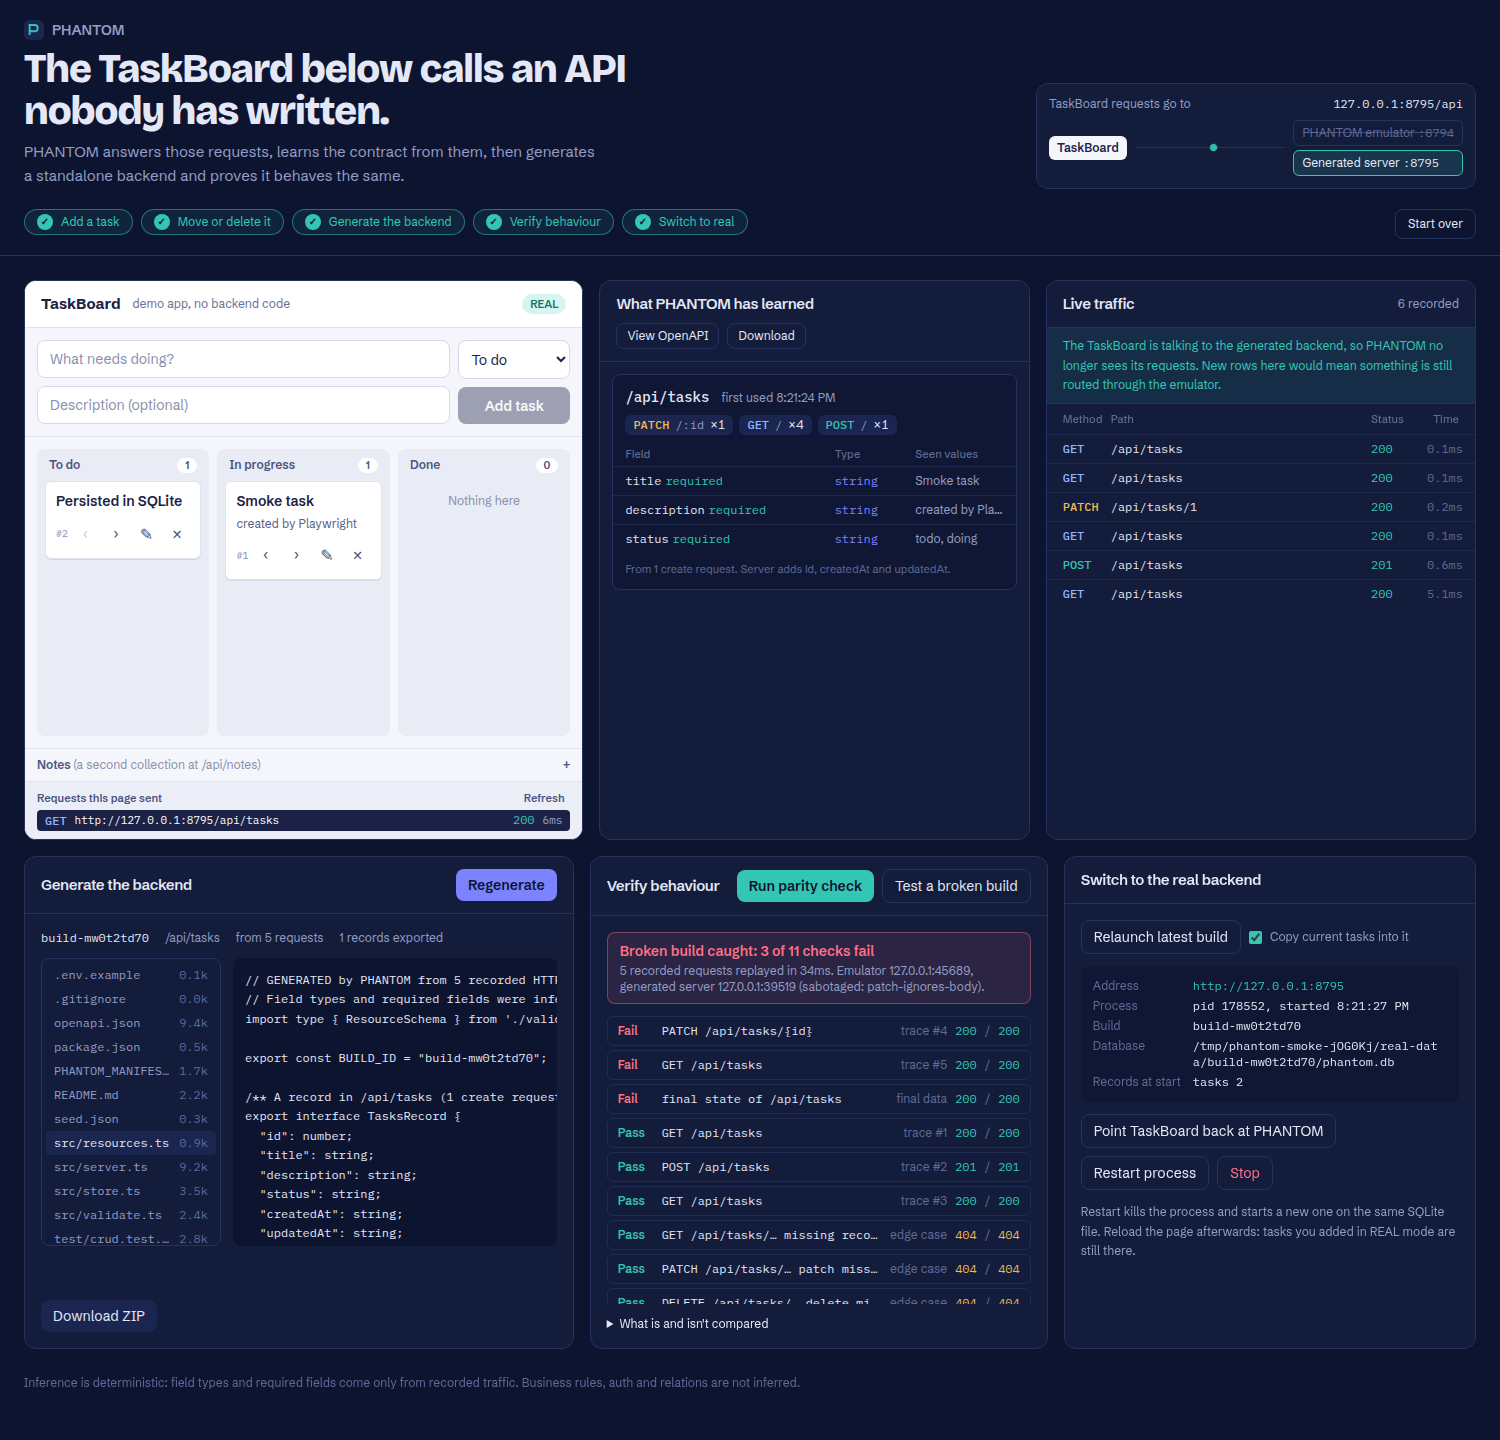
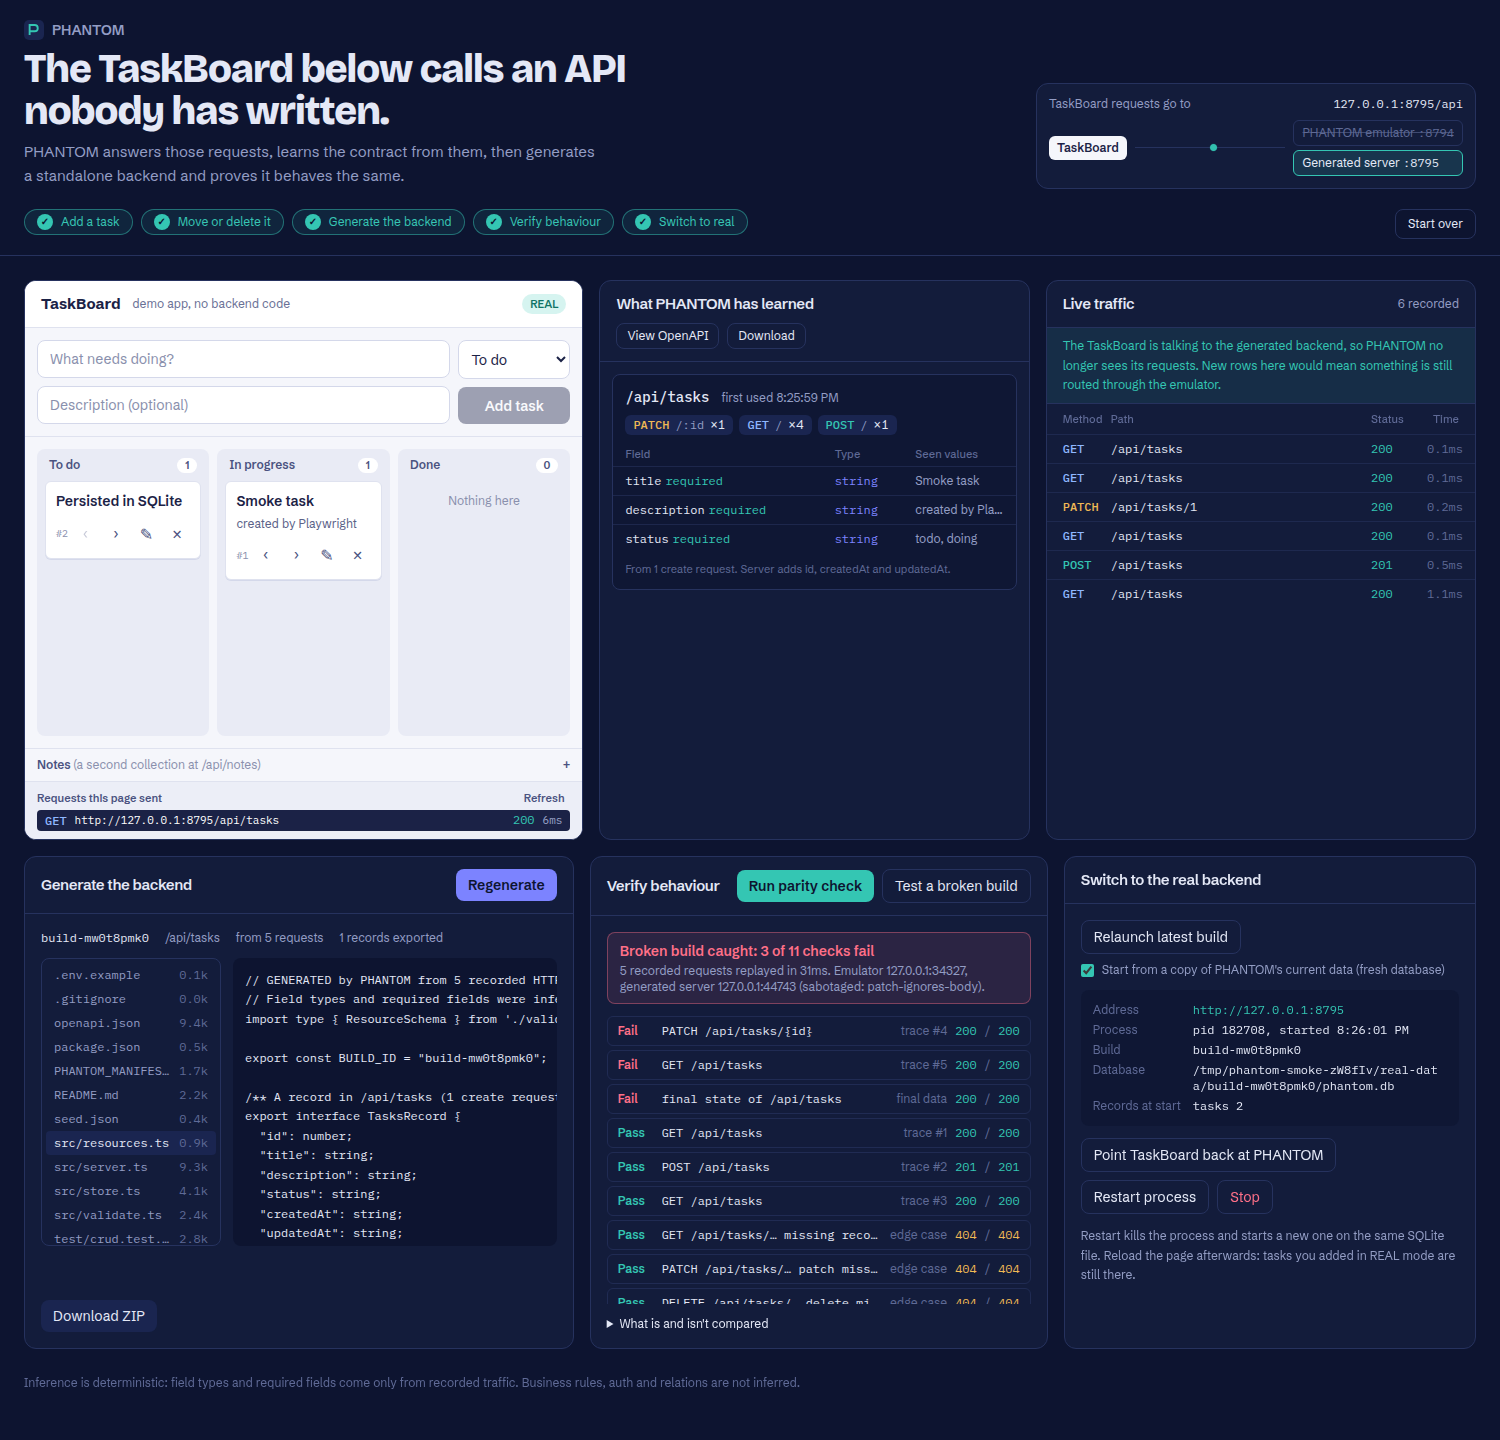
Migrate emulator data at launch time (not generate time), preserve id sequence; typecheck covers template

Changed region(s): [[0.7053, 0.625, 0.9813, 0.875], [0.5213, 0.6562, 0.644, 0.6875], [0.5213, 0.25, 0.552, 0.2812]]

diff --git a/server/backendGenerator.ts b/server/backendGenerator.ts
@@ -198,16 +198,25 @@ by an engineer.
 `;
 }
 
+/** Dataset export understood by the generated server's SEED_FILE import (records keep their ids; nextIds prevent id reuse). */
+export function renderSeed(snapshot: EngineSnapshot | undefined, resources: string[], exportedAt: string): { content: string; records: number } {
+  const collections: Record<string, unknown[]> = {};
+  const nextIds: Record<string, number> = {};
+  let records = 0;
+  for (const name of resources) {
+    const c = snapshot?.collections[name];
+    collections[name] = c?.records ?? [];
+    nextIds[name] = c?.nextId ?? 1;
+    records += collections[name].length;
+  }
+  return { content: JSON.stringify({ exportedAt, collections, nextIds }, null, 2) + '\n', records };
+}
+
 export function generateProject(contract: InferredContract, options: GenerateOptions): GeneratedFile[] {
   if (!/^[a-z0-9-]{1,64}$/.test(options.buildId)) throw new Error('invalid build id');
   const resources = contract.resources.filter((r) => RESOURCE_NAME.test(r.name)).map((r) => r.name);
-  const seedCollections: Record<string, unknown[]> = {};
-  let seedRecords = 0;
-  for (const name of resources) {
-    const records = options.seed?.collections[name]?.records ?? [];
-    seedCollections[name] = records;
-    seedRecords += records.length;
-  }
+  const seed = renderSeed(options.seed, resources, options.createdAt ?? new Date().toISOString());
+  const seedRecords = seed.records;
   const files: GeneratedFile[] = [];
   for (const rel of TEMPLATE_FILES) {
     let content = readFileSync(join(TEMPLATE_DIR, rel), 'utf8');
@@ -241,7 +250,7 @@ export function generateProject(contract: InferredContract, options: GenerateOpt
       ) + '\n',
   });
   files.push({ path: 'openapi.json', content: JSON.stringify(buildOpenApi(contract, { title: 'Generated backend' }), null, 2) + '\n' });
-  files.push({ path: 'seed.json', content: JSON.stringify({ exportedAt: options.createdAt ?? new Date().toISOString(), collections: seedCollections }, null, 2) + '\n' });
+  files.push({ path: 'seed.json', content: seed.content });
   files.push({ path: 'README.md', content: renderReadme(contract, options.buildId, seedRecords) });
   files.push({ path: '.gitignore', content: 'node_modules/\ndata/\n' });
   files.push({ path: '.env.example', content: 'PORT=8788\nHOST=127.0.0.1\nDATA_DIR=./data\n# SEED_FILE=seed.json\nCORS_ORIGINS=http://127.0.0.1:8787,http://localhost:8787\n' });

diff --git a/tests/e2e.test.ts b/tests/e2e.test.ts
@@ -85,14 +85,17 @@ describe('PHANTOM end to end', () => {
   });
 
   it('launches the REAL backend with migrated data that survives a restart', async () => {
+    // Created AFTER the build was generated: migration must copy the emulator's data at launch time.
+    expect((await api('POST', '/api/tasks', { title: 'Added after generate', description: '', status: 'todo' })).body.id).toBe(3);
     const launched = (await api('POST', '/__phantom/real/launch', { buildId: build.id, migrate: true })).body;
     expect(launched.running).toBe(true);
     const realBase = launched.url as string;
     expect(realBase).not.toBe(base);
     const migrated = (await api('GET', '/api/tasks', undefined, realBase)).body as { title: string }[];
-    expect(migrated.map((t) => t.title)).toEqual(['Write pitch']);
+    expect(migrated.map((t) => t.title)).toEqual(['Write pitch', 'Added after generate']);
     const created = await api('POST', '/api/tasks', { title: 'Only in REAL', description: 'sqlite', status: 'todo' }, realBase);
     expect(created.status).toBe(201);
+    expect(created.body.id).toBe(4); // continues the emulator's id sequence; deleted id 2 is never reused
     expect(created.headers.get('x-phantom-generated-build')).toBe(build.id);
     // The emulator never saw it: the REAL backend is a separate implementation with its own storage.
     expect(((await api('GET', '/api/tasks')).body as { title: string }[]).some((t) => t.title === 'Only in REAL')).toBe(false);
@@ -100,7 +103,7 @@ describe('PHANTOM end to end', () => {
     const restarted = (await api('POST', '/__phantom/real/restart')).body;
     expect(restarted.pid).not.toBe(launched.pid);
     const after = (await api('GET', '/api/tasks', undefined, restarted.url)).body as { title: string }[];
-    expect(after.map((t) => t.title)).toEqual(['Write pitch', 'Only in REAL']);
+    expect(after.map((t) => t.title)).toEqual(['Write pitch', 'Added after generate', 'Only in REAL']);
     const bad = await api('POST', '/api/tasks', { title: 42 }, restarted.url);
     expect(bad.status).toBe(400);
     expect(bad.body.error).toBe('validation_failed');

diff --git a/server/app.ts b/server/app.ts
@@ -11,7 +11,7 @@ import type { TraceEvent } from './traceRecorder.ts';
 import { TraceRecorder } from './traceRecorder.ts';
 import { buildOpenApi, inferContract } from './contractInference.ts';
 import type { BuildInfo, GeneratedFile, Mutation } from './backendGenerator.ts';
-import { describeBuild, generateProject, writeProject, zipProject } from './backendGenerator.ts';
+import { describeBuild, generateProject, renderSeed, writeProject, zipProject } from './backendGenerator.ts';
 import type { RunningBackend } from './processManager.ts';
 import { startGeneratedBackend } from './processManager.ts';
 import type { ParityReport } from './parityVerifier.ts';
@@ -121,12 +121,20 @@ export async function createPhantom(options: PhantomOptions = {}): Promise<Phant
     if (real) await real.stop();
     real = undefined;
     const realData = join(dataDir, 'real-data', buildId);
+    let seedFile: string | undefined;
+    if (migrate) {
+      // Copy the emulator's data as it is right now into a fresh database (not the snapshot taken at generate time).
+      rmSync(realData, { recursive: true, force: true });
+      mkdirSync(realData, { recursive: true });
+      seedFile = join(dataDir, 'real-data', `${buildId}.seed.json`);
+      writeFileSync(seedFile, renderSeed(engine.snapshot(), build.info.resources, new Date().toISOString()).content);
+    }
     try {
       const started = await startGeneratedBackend({
         dir: build.info.dir,
         dataDir: realData,
         port: realPort,
-        seedFile: migrate ? join(build.info.dir, 'seed.json') : undefined,
+        seedFile,
         corsOrigins: [...origins].join(','),
       });
       real = { ...started, buildId, startedAt: new Date().toISOString(), dataDir: realData, migrated: migrate };

diff --git a/templates/backend/src/store.ts b/templates/backend/src/store.ts
@@ -73,6 +73,16 @@ export class Store {
       .run(id, JSON.stringify(data), String(createdAt), String(updatedAt));
   }
 
+  /** Ensure the next generated id is at least `nextId` (keeps ids from an imported dataset unique forever). */
+  reserveIds(resource: string, nextId: number): void {
+    if (!Number.isInteger(nextId) || nextId < 2) return;
+    const name = `res_${resource}`;
+    table(resource);
+    const row = this.db.prepare('SELECT seq FROM sqlite_sequence WHERE name = ?').get(name) as { seq: number } | undefined;
+    if (!row) this.db.prepare('INSERT INTO sqlite_sequence (name, seq) VALUES (?, ?)').run(name, nextId - 1);
+    else if (Number(row.seq) < nextId - 1) this.db.prepare('UPDATE sqlite_sequence SET seq = ? WHERE name = ?').run(nextId - 1, name);
+  }
+
   update(resource: string, id: number, data: JsonObject, now: string): StoredRecord | undefined {
     const result = this.db.prepare(`UPDATE ${table(resource)} SET data = ?, updated_at = ? WHERE id = ?`).run(JSON.stringify(data), now, id);
     return Number(result.changes) > 0 ? this.get(resource, id) : undefined;

diff --git a/templates/backend/src/server.ts b/templates/backend/src/server.ts
@@ -40,7 +40,7 @@ interface Reply {
 const err = (status: number, error: string, message: string, extra: JsonObject = {}): Reply => ({ status, body: { error, message, ...extra } });
 
 function importSeed(file: string): number {
-  const seed = JSON.parse(readFileSync(file, 'utf8')) as { collections?: Record<string, StoredRecord[]> };
+  const seed = JSON.parse(readFileSync(file, 'utf8')) as { collections?: Record<string, StoredRecord[]>; nextIds?: Record<string, number> };
   let imported = 0;
   store.transaction(() => {
     for (const resource of RESOURCE_NAMES) {
@@ -51,6 +51,8 @@ function importSeed(file: string): number {
         store.importRecord(resource, r);
         imported++;
       }
+      const nextId = seed.nextIds?.[resource];
+      if (typeof nextId === 'number') store.reserveIds(resource, nextId);
     }
   });
   return imported;

diff --git a/web/src/components/Ship.tsx b/web/src/components/Ship.tsx
@@ -220,7 +220,7 @@ export function RealPanel({ build, real, mode, setMode, onReal }: { build?: Buil
               </Button>
               <label className="flex items-center gap-2 text-xs text-muted">
                 <input type="checkbox" checked={migrate} onChange={(e) => setMigrate(e.target.checked)} className="accent-teal" />
-                Copy current tasks into it
+                Start from a copy of PHANTOM's current data (fresh database)
               </label>
             </div>
             {running && real && (

diff --git a/README.md b/README.md
@@ -187,7 +187,9 @@ Screenshots captured by the smoke test (real runs, not mockups): `artifacts/scre
 - Inference only reflects recorded traffic. A field never sent is unknown, and extra fields are accepted.
 - Query filters are exact string matches on top-level scalar fields.
 - Traces are capped at 5,000 events, and parity replays up to 1,000 of them.
-- REAL-mode data and PHANTOM-mode data diverge after the switch. Migration is a one-time copy at launch.
+- REAL-mode data and PHANTOM-mode data diverge after the switch. Migration is a one-time copy of the emulator's data at
+  the moment you click *Start generated backend*, into a fresh database. Ids and the id sequence are preserved. Restart
+  reuses the database and never re-imports.
 - The REAL backend is launched by PHANTOM as a child process. Stopping PHANTOM stops it too. To run it fully on its own,
   use the ZIP and the commands above.
 - Not deployed anywhere. Everything runs locally.
